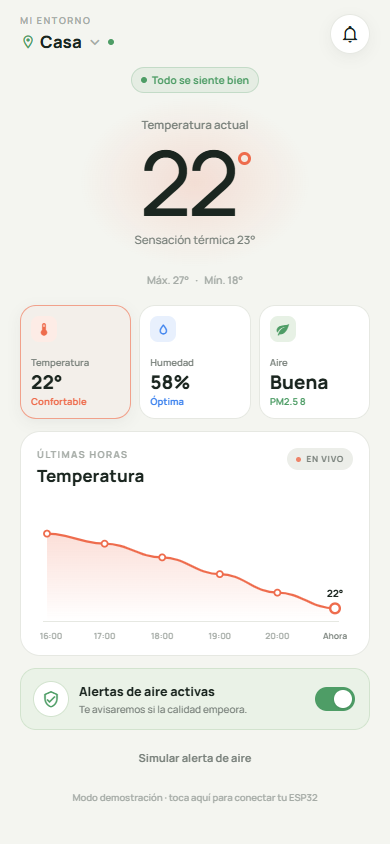
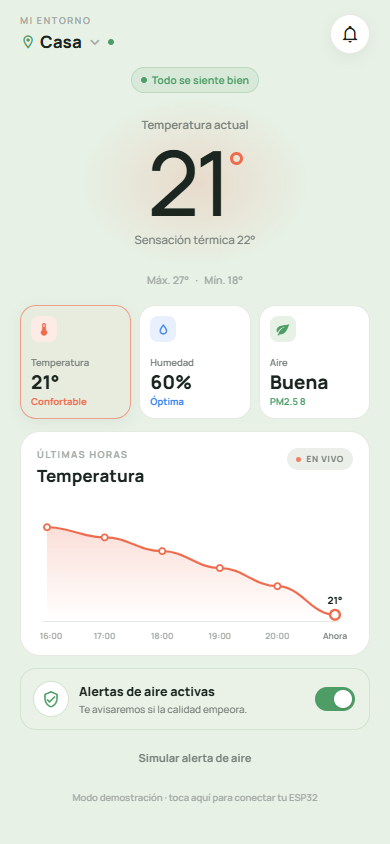
feat(system): integracion mqtt en app y ajuste de firmware con display lcd

diff --git a/app/src/servicios/clienteMqtt.ts b/app/src/servicios/clienteMqtt.ts
@@ -1,0 +1,96 @@
+import mqtt, { type MqttClient } from 'mqtt';
+import { lecturaDesdeJson, type Lectura } from '../modelos/lectura';
+
+export class ErrorEsp32 extends Error {}
+
+/**
+ * Cliente MQTT por WebSockets para conectarse al Broker público HiveMQ
+ * y recibir la telemetría del ESP32 en tiempo real.
+ */
+let clienteMqtt: MqttClient | null = null;
+let ultimaLecturaMqtt: Lectura | null = null;
+let topicoActual = 'colectivo/aire/nodo1';
+let oyentes: ((l: Lectura) => void)[] = [];
+let estadoConexionMqtt: 'conectado' | 'desconectado' | 'error' = 'desconectado';
+
+export function iniciarClienteMqtt(
+  brokerWsUrl = 'wss://broker.hivemq.com:8884/mqtt',
+  topico = 'colectivo/aire/nodo1',
+  onLectura?: (l: Lectura) => void,
+) {
+  if (onLectura && !oyentes.includes(onLectura)) {
+    oyentes.push(onLectura);
+  }
+
+  if (clienteMqtt && topicoActual === topico && clienteMqtt.connected) {
+    if (ultimaLecturaMqtt && onLectura) onLectura(ultimaLecturaMqtt);
+    return;
+  }
+
+  if (clienteMqtt) {
+    try {
+      clienteMqtt.end();
+    } catch {}
+    clienteMqtt = null;
+  }
+
+  topicoActual = topico;
+  const clientId = 'AppMovil_Eq3_' + Math.random().toString(16).substring(2, 8);
+
+  try {
+    clienteMqtt = mqtt.connect(brokerWsUrl, {
+      clientId,
+      clean: true,
+      connectTimeout: 7000,
+      reconnectPeriod: 3000,
+    });
+
+    clienteMqtt.on('connect', () => {
+      estadoConexionMqtt = 'conectado';
+      clienteMqtt?.subscribe(topicoActual, (err) => {
+        if (err) console.error('[MQTT] Error al suscribirse:', err);
+      });
+    });
+
+    clienteMqtt.on('message', (_top, mensaje) => {
+      try {
+        const texto = mensaje.toString();
+        const obj = JSON.parse(texto);
+        const l = lecturaDesdeJson(obj);
+        ultimaLecturaMqtt = l;
+        oyentes.forEach((fn) => fn(l));
+      } catch (err) {
+        console.error('[MQTT] Error decodificando payload:', err);
+      }
+    });
+
+    clienteMqtt.on('error', () => {
+      estadoConexionMqtt = 'error';
+    });
+
+    clienteMqtt.on('close', () => {
+      estadoConexionMqtt = 'desconectado';
+    });
+  } catch (err) {
+    console.error('[MQTT] Falló conexión con broker:', err);
+  }
+}
+
+export function detenerClienteMqtt() {
+  if (clienteMqtt) {
+    try {
+      clienteMqtt.end();
+    } catch {}
+    clienteMqtt = null;
+  }
+  oyentes = [];
+  estadoConexionMqtt = 'desconectado';
+}
+
+export function obtenerUltimaLecturaMqtt(): Lectura | null {
+  return ultimaLecturaMqtt;
+}
+
+export function estadoMqtt(): string {
+  return estadoConexionMqtt;
+}

diff --git a/app/src/estado/monitor.ts b/app/src/estado/monitor.ts
@@ -21,6 +21,11 @@ import {
   registrarPushEsp32,
 } from '../servicios/clienteEsp32';
 import {
+  detenerClienteMqtt,
+  iniciarClienteMqtt,
+  obtenerUltimaLecturaMqtt,
+} from '../servicios/clienteMqtt';
+import {
   abiertaDesdeNotificacion,
   escucharToques,
   iniciarNotificaciones,
@@ -141,12 +146,27 @@ export class Monitor {
     this.cargado = true;
     this.avisarCambios();
     this.programarSondeo();
+
+    // Iniciar cliente MQTT en tiempo real hacia el broker de HiveMQ
+    iniciarClienteMqtt('wss://broker.hivemq.com:8884/mqtt', 'colectivo/aire/nodo1', (nueva) => {
+      if (!this.dispositivo.demo) {
+        this.lecturaReal = nueva;
+        this.conexion = 'enLinea';
+        this.error = null;
+        this.ultimaActualizacion = nueva.fecha;
+        this.registrar(nueva);
+        void this.evaluar();
+        this.avisarCambios();
+      }
+    });
+
     await this.actualizar(true);
   }
 
   detener() {
     if (this.sondeo) clearInterval(this.sondeo);
     if (this.finSimulacion) clearTimeout(this.finSimulacion);
+    detenerClienteMqtt();
     this.limpiezas.forEach((fn) => fn());
     this.limpiezas = [];
   }
@@ -180,9 +200,14 @@ export class Monitor {
       if (d.demo) {
         nueva = lecturaSimulada(Date.now());
       } else {
-        const url = normalizarDireccion(d.direccion);
-        if (traerHistorial) await this.traerHistorialEsp32(d, url);
-        nueva = await leerEsp32(url);
+        const mqttLectura = obtenerUltimaLecturaMqtt();
+        if (mqttLectura && Date.now() - mqttLectura.fecha < 10000) {
+          nueva = mqttLectura;
+        } else {
+          const url = normalizarDireccion(d.direccion);
+          if (traerHistorial) await this.traerHistorialEsp32(d, url);
+          nueva = await leerEsp32(url);
+        }
       }
       if (d.id !== this.dispositivo.id) return; // cambió de dispositivo a medio camino
       this.lecturaReal = nueva;

diff --git a/app/src/componentes/Resumen.tsx b/app/src/componentes/Resumen.tsx
@@ -312,17 +312,15 @@ function AnalisisAire() {
       <View style={estilos.separador} />
       <View style={estilos.filaCentro}>
         <T t={12} f="negrita" style={{ flex: 1 }}>
-          Gases detectados
+          Gases y sensores
         </T>
         <T t={10} c={Paleta.textoTenue}>
-          {m.simulando ? 'Simulación' : 'Lectura actual'}
+          {m.simulando ? 'Simulación' : 'MQ-7 Electroquímico'}
         </T>
       </View>
-      <View style={[estilos.filaMetricas, { gap: 6, marginTop: 10 }]}>
-        <Gas nombre="CO2" valor={numero(l?.co2)} unidad="ppm" />
-        <Gas nombre="CO" valor={numero(l?.co, 1)} unidad="ppm" color={colorCo} />
-        <Gas nombre="COV" valor={numero(l?.cov, 2)} unidad="ppm" />
-        <Gas nombre="NO2" valor={numero(l?.no2)} unidad="ppb" />
+      <View style={[estilos.filaMetricas, { gap: 10, marginTop: 10 }]}>
+        <Gas nombre="Monóxido de Carbono (CO)" valor={numero(l?.co, 2)} unidad="ppm" color={colorCo} />
+        {l?.co2 !== undefined ? <Gas nombre="CO2" valor={numero(l?.co2)} unidad="ppm" /> : null}
       </View>
     </Tarjeta>
   );

diff --git a/app/src/app/index.tsx b/app/src/app/index.tsx
@@ -21,8 +21,10 @@ export default function Inicio() {
     router.push('/ajustes');
   };
 
+  const fondoDinamico = m.aire?.nivel?.colorSuave ?? Paleta.fondo;
+
   return (
-    <View style={[estilos.pantalla, { paddingTop: insets.top }]}>
+    <View style={[estilos.pantalla, { paddingTop: insets.top, backgroundColor: fondoDinamico }]}>
       <View style={estilos.marco}>
         {!m.cargado ? (
           <ActivityIndicator style={{ flex: 1 }} color={Paleta.verde} />
